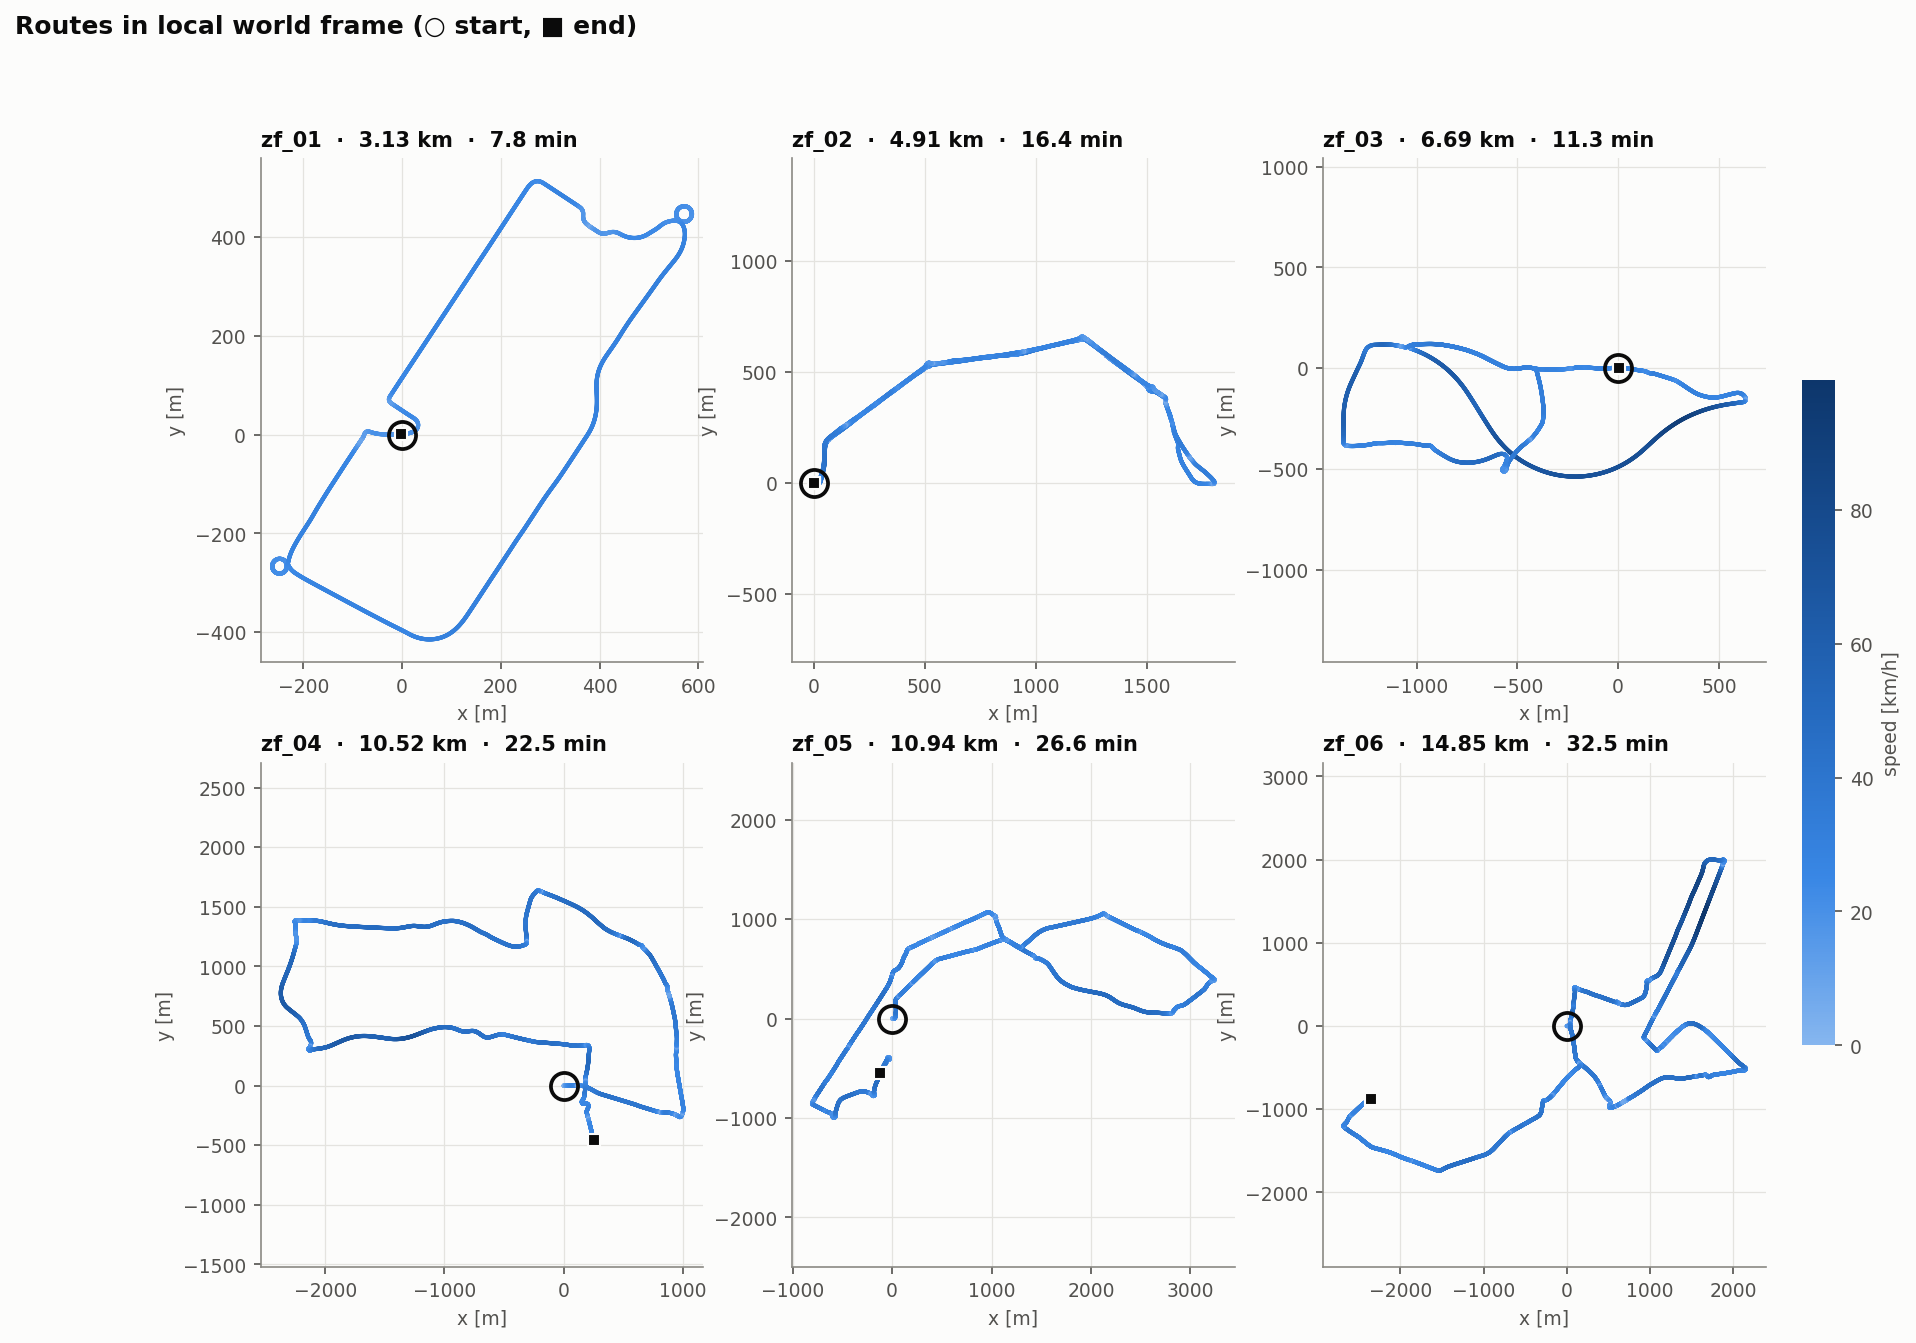
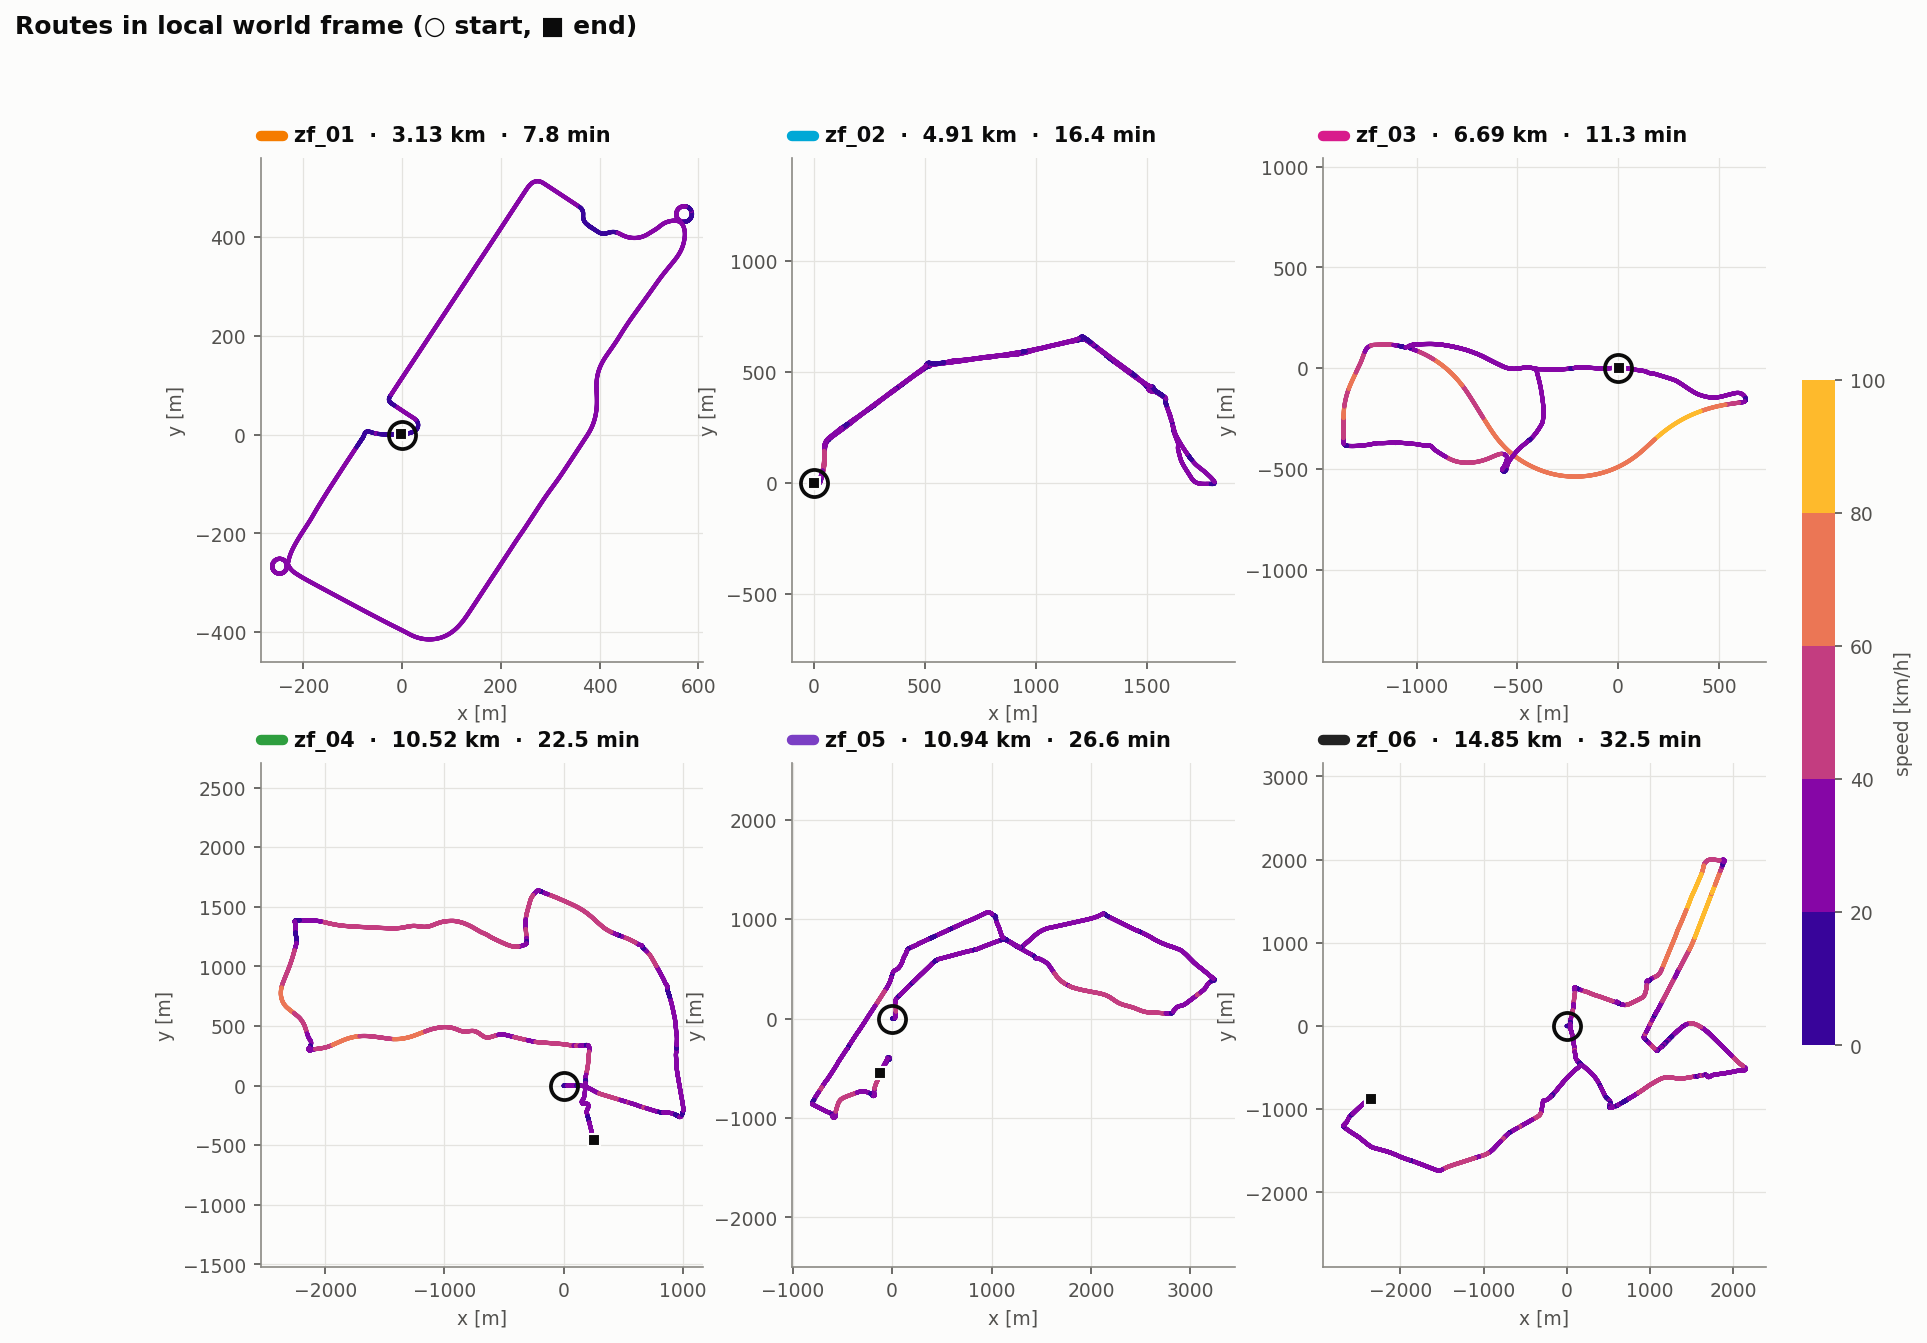
color route plots by discrete speed classes and add sequence color swatches

diff --git a/zf_radar/plots.py b/zf_radar/plots.py
@@ -24,7 +24,7 @@ try:
     matplotlib.use("Agg")
     import matplotlib.pyplot as plt
     from matplotlib.collections import LineCollection
-    from matplotlib.colors import LinearSegmentedColormap, Normalize
+    from matplotlib.colors import BoundaryNorm, ListedColormap
 except ImportError as e:
     raise SystemExit(
         f"Missing plotting dependency: {e.name}. The route plots need the [plot] extras:\n"
@@ -36,14 +36,28 @@ from zf_radar.loaders import discover_sequences, load_ground_truth, load_pcd_met
 MS_TO_KMH = 3.6
 STATIONARY_MS = 0.3
 
-# Single-hue sequential ramp (light -> dark blue) for speed; starts at a step
-# that still reads as a line on the white surface
-SPEED_CMAP = LinearSegmentedColormap.from_list(
-    "speed", ["#86b6ef", "#3987e5", "#256abf", "#184f95", "#0d366b"]
+# Speed in fixed 20 km/h classes, shared by every route plot so a color always
+# means the same speed. Colors are steps of the perceptually uniform "plasma" map
+# (dark violet -> orange, lightness rising monotonically), stopping before its
+# pale yellow end so the slowest and fastest classes both read on white.
+SPEED_BOUNDS_KMH = [0, 20, 40, 60, 80, 100]
+SPEED_CMAP = ListedColormap(
+    matplotlib.colormaps["plasma"](np.linspace(0.08, 0.85, len(SPEED_BOUNDS_KMH) - 1)), name="speed"
 )
+SPEED_NORM = BoundaryNorm(SPEED_BOUNDS_KMH, SPEED_CMAP.N, clip=True)
 INK = {"primary": "#0b0b0b", "secondary": "#52514e", "muted": "#8a8984", "grid": "#e4e3df"}
 SERIES = "#2a78d6"
 REFERENCE = "#eb6834"
+# One identity color per sequence, shared by every figure that tells sequences apart
+# (six distinct hue families; OKLab dE >= 20 between any two)
+SEQUENCE_COLORS = {
+    "zf_01": "#f57c00",
+    "zf_02": "#00a8d6",
+    "zf_03": "#d81b8c",
+    "zf_04": "#2e9e3e",
+    "zf_05": "#7b3fc4",
+    "zf_06": "#222222",
+}
 
 
 def _style():
@@ -130,13 +144,19 @@ def plot_overview(stats, summaries, out_path):
     cols = min(3, n)
     rows = int(np.ceil(n / cols))
     fig, axes = plt.subplots(rows, cols, figsize=(5.2 * cols, 4.8 * rows), squeeze=False)
-    vmax = max(s["speed"].max() for s in stats.values()) * MS_TO_KMH
-    norm = Normalize(0, vmax)
-
     for ax, (name, s) in zip(axes.flat, stats.items()):
         sm = summaries[name]
-        lc = _route(ax, s, norm)
-        ax.set_title(f"{name}  ·  {sm['distance_km']} km  ·  {sm['duration_min']:.1f} min", loc="left")
+        lc = _route(ax, s, SPEED_NORM)
+        title = f"{name}  ·  {sm['distance_km']} km  ·  {sm['duration_min']:.1f} min"
+        color = SEQUENCE_COLORS.get(name)
+        if color is None:
+            ax.set_title(title, loc="left")
+        else:
+            # identity swatch in the sequence color; the route itself stays colored by speed
+            ax.plot([0.0, 0.05], [1.045, 1.045], transform=ax.transAxes, color=color, lw=5,
+                    solid_capstyle="round", clip_on=False)
+            ax.text(0.075, 1.045, title, transform=ax.transAxes, va="center", ha="left",
+                    fontsize=plt.rcParams["axes.titlesize"], fontweight="semibold", color=INK["primary"])
     for ax in axes.flat[n:]:
         ax.set_visible(False)
 
@@ -155,7 +175,7 @@ def plot_profile(name, s, summary, out_path):
     fig = plt.figure(figsize=(14, 7.5))
     grid = fig.add_gridspec(4, 2, width_ratios=[1.1, 1], hspace=0.35, wspace=0.18)
     ax_route = fig.add_subplot(grid[:, 0])
-    lc = _route(ax_route, s, Normalize(0, s["speed"].max() * MS_TO_KMH))
+    lc = _route(ax_route, s, SPEED_NORM)
     cbar = fig.colorbar(lc, ax=ax_route, shrink=0.5, pad=0.02)
     cbar.set_label("speed [km/h]")
     cbar.outline.set_visible(False)
